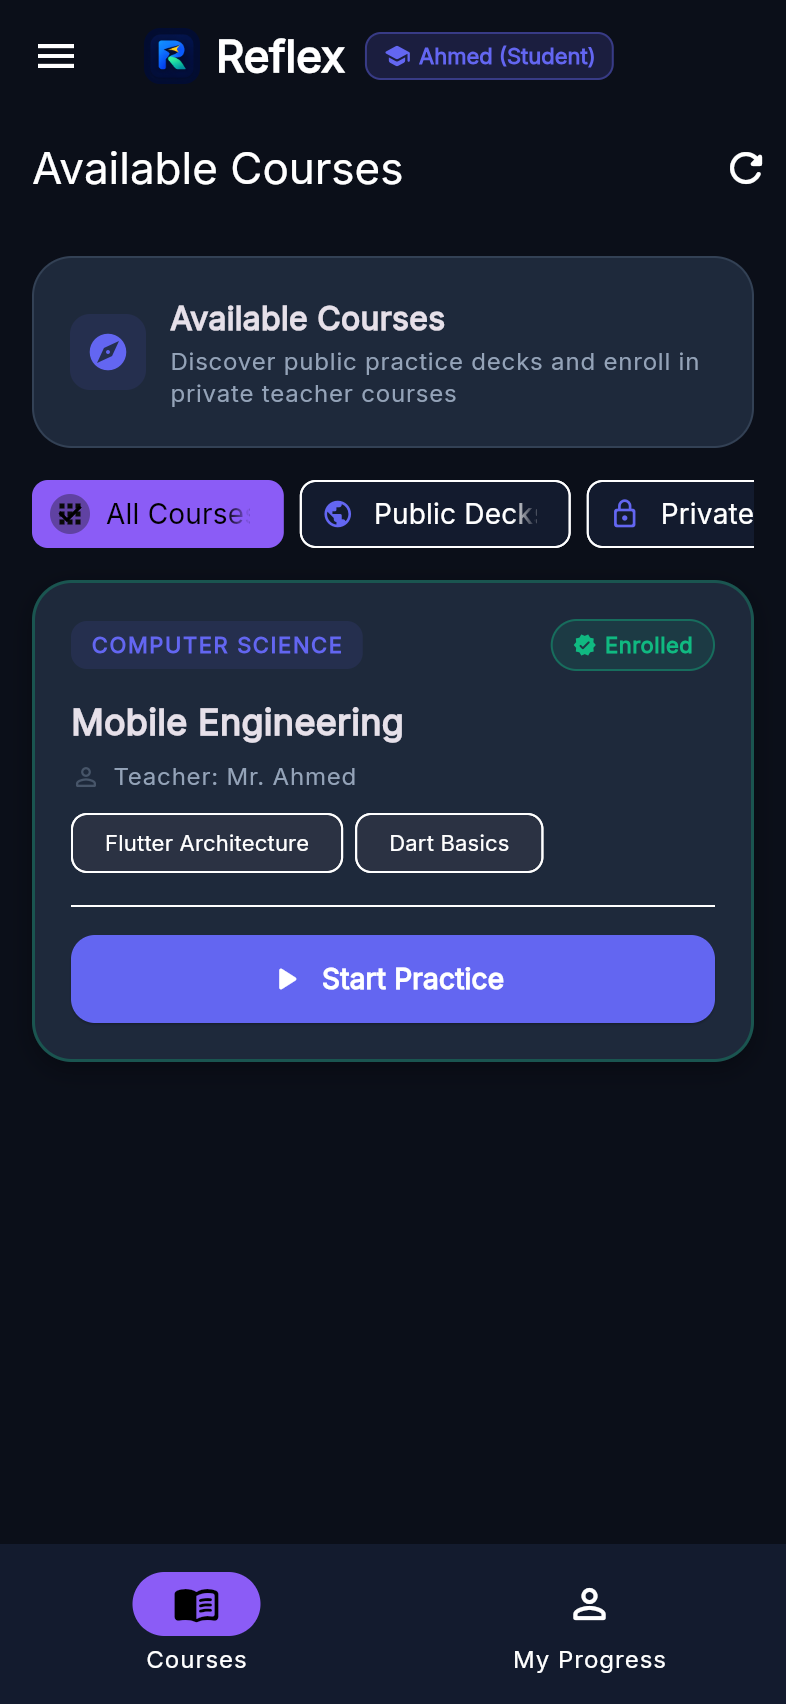
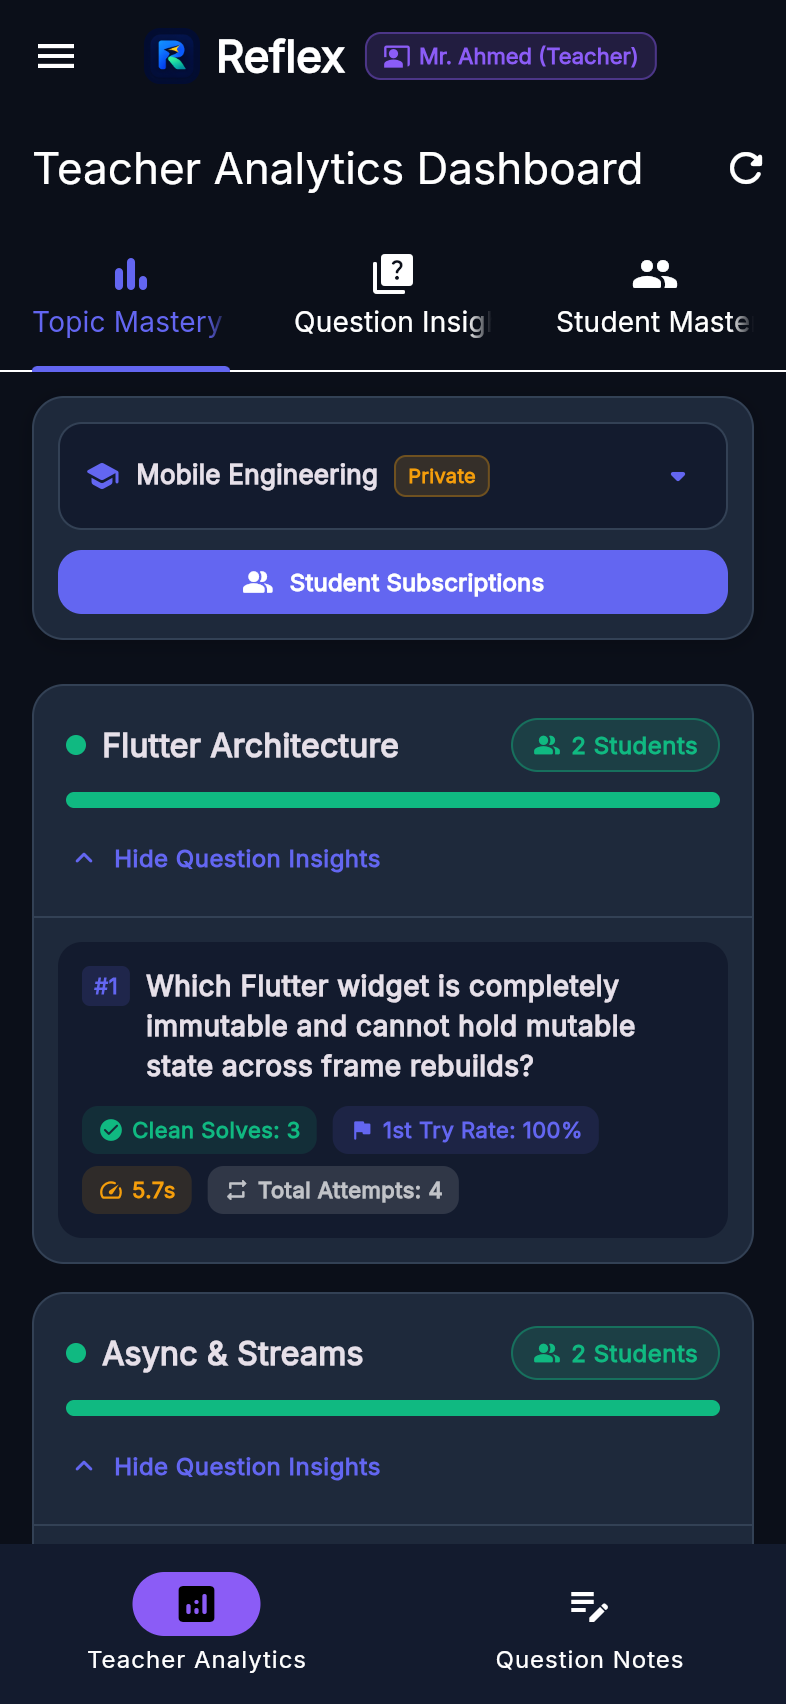
docs: add teacher question admin and student subscription screenshots and update README documentation

diff --git a/README.md b/README.md
@@ -41,7 +41,7 @@ Reflex is designed mobile-first with high-fidelity dark aesthetics, micro-animat
 | 4. Courses Dashboard | 5. MCQ Flashcard Drill | 6. Option Selection |
 | :---: | :---: | :---: |
 | <img src="docs/screenshots/04_student_courses.png" width="220" alt="Student Courses" /> | <img src="docs/screenshots/06_practice_mcq.png" width="220" alt="Practice MCQ" /> | <img src="docs/screenshots/07_option_selected.png" width="220" alt="Option Selected" /> |
-| Enrolled courses & active tags | 30s countdown & hint trigger | Real-time option highlight |
+| Enrolled courses & active tags | Response timer vs teacher target | Real-time option highlight |
 
 | 7. 🟢 Chromatic Feedback (Mastered) | 8. Text-Input Question Drill | 9. Student Progress & Streaks |
 | :---: | :---: | :---: |
@@ -50,10 +50,10 @@ Reflex is designed mobile-first with high-fidelity dark aesthetics, micro-animat
 
 ### 👩🏫 Teacher Analytics & Management Portal
 
-| 10. Topic Mastery Breakdown | 11. Question Insights (Atomic Counters) |
-| :---: | :---: |
-| <img src="docs/screenshots/10_teacher_topic_mastery.png" width="260" alt="Teacher Topic Mastery" /> | <img src="docs/screenshots/11_teacher_question_insights.png" width="260" alt="Teacher Question Insights" /> |
-| Live student counts, progress bars, and clean solve metrics | Atomic solve counters, 1st try rate, and horizontal scroll |
+| 10. Topic Mastery Breakdown | 11. Question Insights (Atomic Counters) | 12. Question Admin & Target Time |
+| :---: | :---: | :---: |
+| <img src="docs/screenshots/10_teacher_topic_mastery.png" width="220" alt="Teacher Topic Mastery" /> | <img src="docs/screenshots/11_teacher_question_insights.png" width="220" alt="Teacher Question Insights" /> | <img src="docs/screenshots/12_teacher_question_admin.png" width="220" alt="Teacher Question Admin" /> |
+| Live student counts, progress bars, and clean solve metrics | Atomic solve counters, 1st try rate, and horizontal scroll | Curriculum editor, concept notes & teacher target time (15s) |
 
 ---
 
@@ -67,12 +67,12 @@ While completing my Master's in Software Engineering at **Quantic** (a global co
 
 Reflex transforms studying into a fast-paced active reflex:
 
-1. **Answer a Short Question (Active Micro-Recall):** Students solve quick 30-second scenario cards (multiple-choice or text-input) designed to trigger active recall without textbook burnout.
+1. **Answer a Short Question (Active Micro-Recall):** Students solve rapid scenario cards (multiple-choice or text-input) timed against the teacher's estimated target solve time (e.g., 10s-30s) to trigger active recall without textbook burnout.
 2. **Get Immediate Feedback (Chromatic Visual Aura):** Instant visual feedback (🟢 Green for mastered, 🟡 Yellow for developing, 🔴 Red for needs work) plus compulsory concept explanations and option rationales.
-3. **Track Accuracy & Response Time (Hesitation Detection):** Reflex doesn't only check if an answer is right; it measures millisecond reaction latency to detect true mastery versus lucky guesses or hesitation.
+3. **Track Accuracy & Response Time (Hesitation Detection):** Reflex doesn't only check if an answer is right; it measures millisecond reaction latency against the teacher's target estimation to detect true mastery versus lucky guesses or hesitation.
 4. **Review Again at the Right Time (Spaced Repetition Engine):** The Serverpod spaced repetition queue schedules cards at scientifically optimal intervals right before memory decays.
 
-Teachers create courses and questions, approve student subscriptions to private courses, and see live cohort analytics. **Each teacher only sees and manages their own content.**
+Teachers create courses and questions, set per-question target solve times (`expectedSeconds`), author guided hints and compulsory explanation notes, approve student subscriptions to private courses, and monitor live cohort analytics. **Each teacher only sees and manages their own content.**
 
 ## 🧠 Why Serverpod?
 
@@ -84,7 +84,7 @@ After years of building with Firebase, concurrency was the wall: many users writ
 
 - **Spaced-Repetition Review Queue:** Dynamically selects overdue flashcards or prioritizes new unattempted questions based on forgetting curve intervals.
 - **Chromatic Feedback Aura:** Instant feedback reflecting the student's mastery level:
-  - 🟢 **Green (Mastered):** Clean first-try solve answered under the target response time.
+  - 🟢 **Green (Mastered):** Clean first-try solve answered under the teacher's estimated target response time.
   - 🟡 **Yellow (Developing):** Correct answer, but slow response time or hint was requested.
   - 🔴 **Red (Needs Work):** Incorrect answer, scheduling the card for review in +1 day.
 - **Compulsory Explanation Note Gate:** When answering, students must view and absorb the teacher's concept explanation note before proceeding to the next card.
